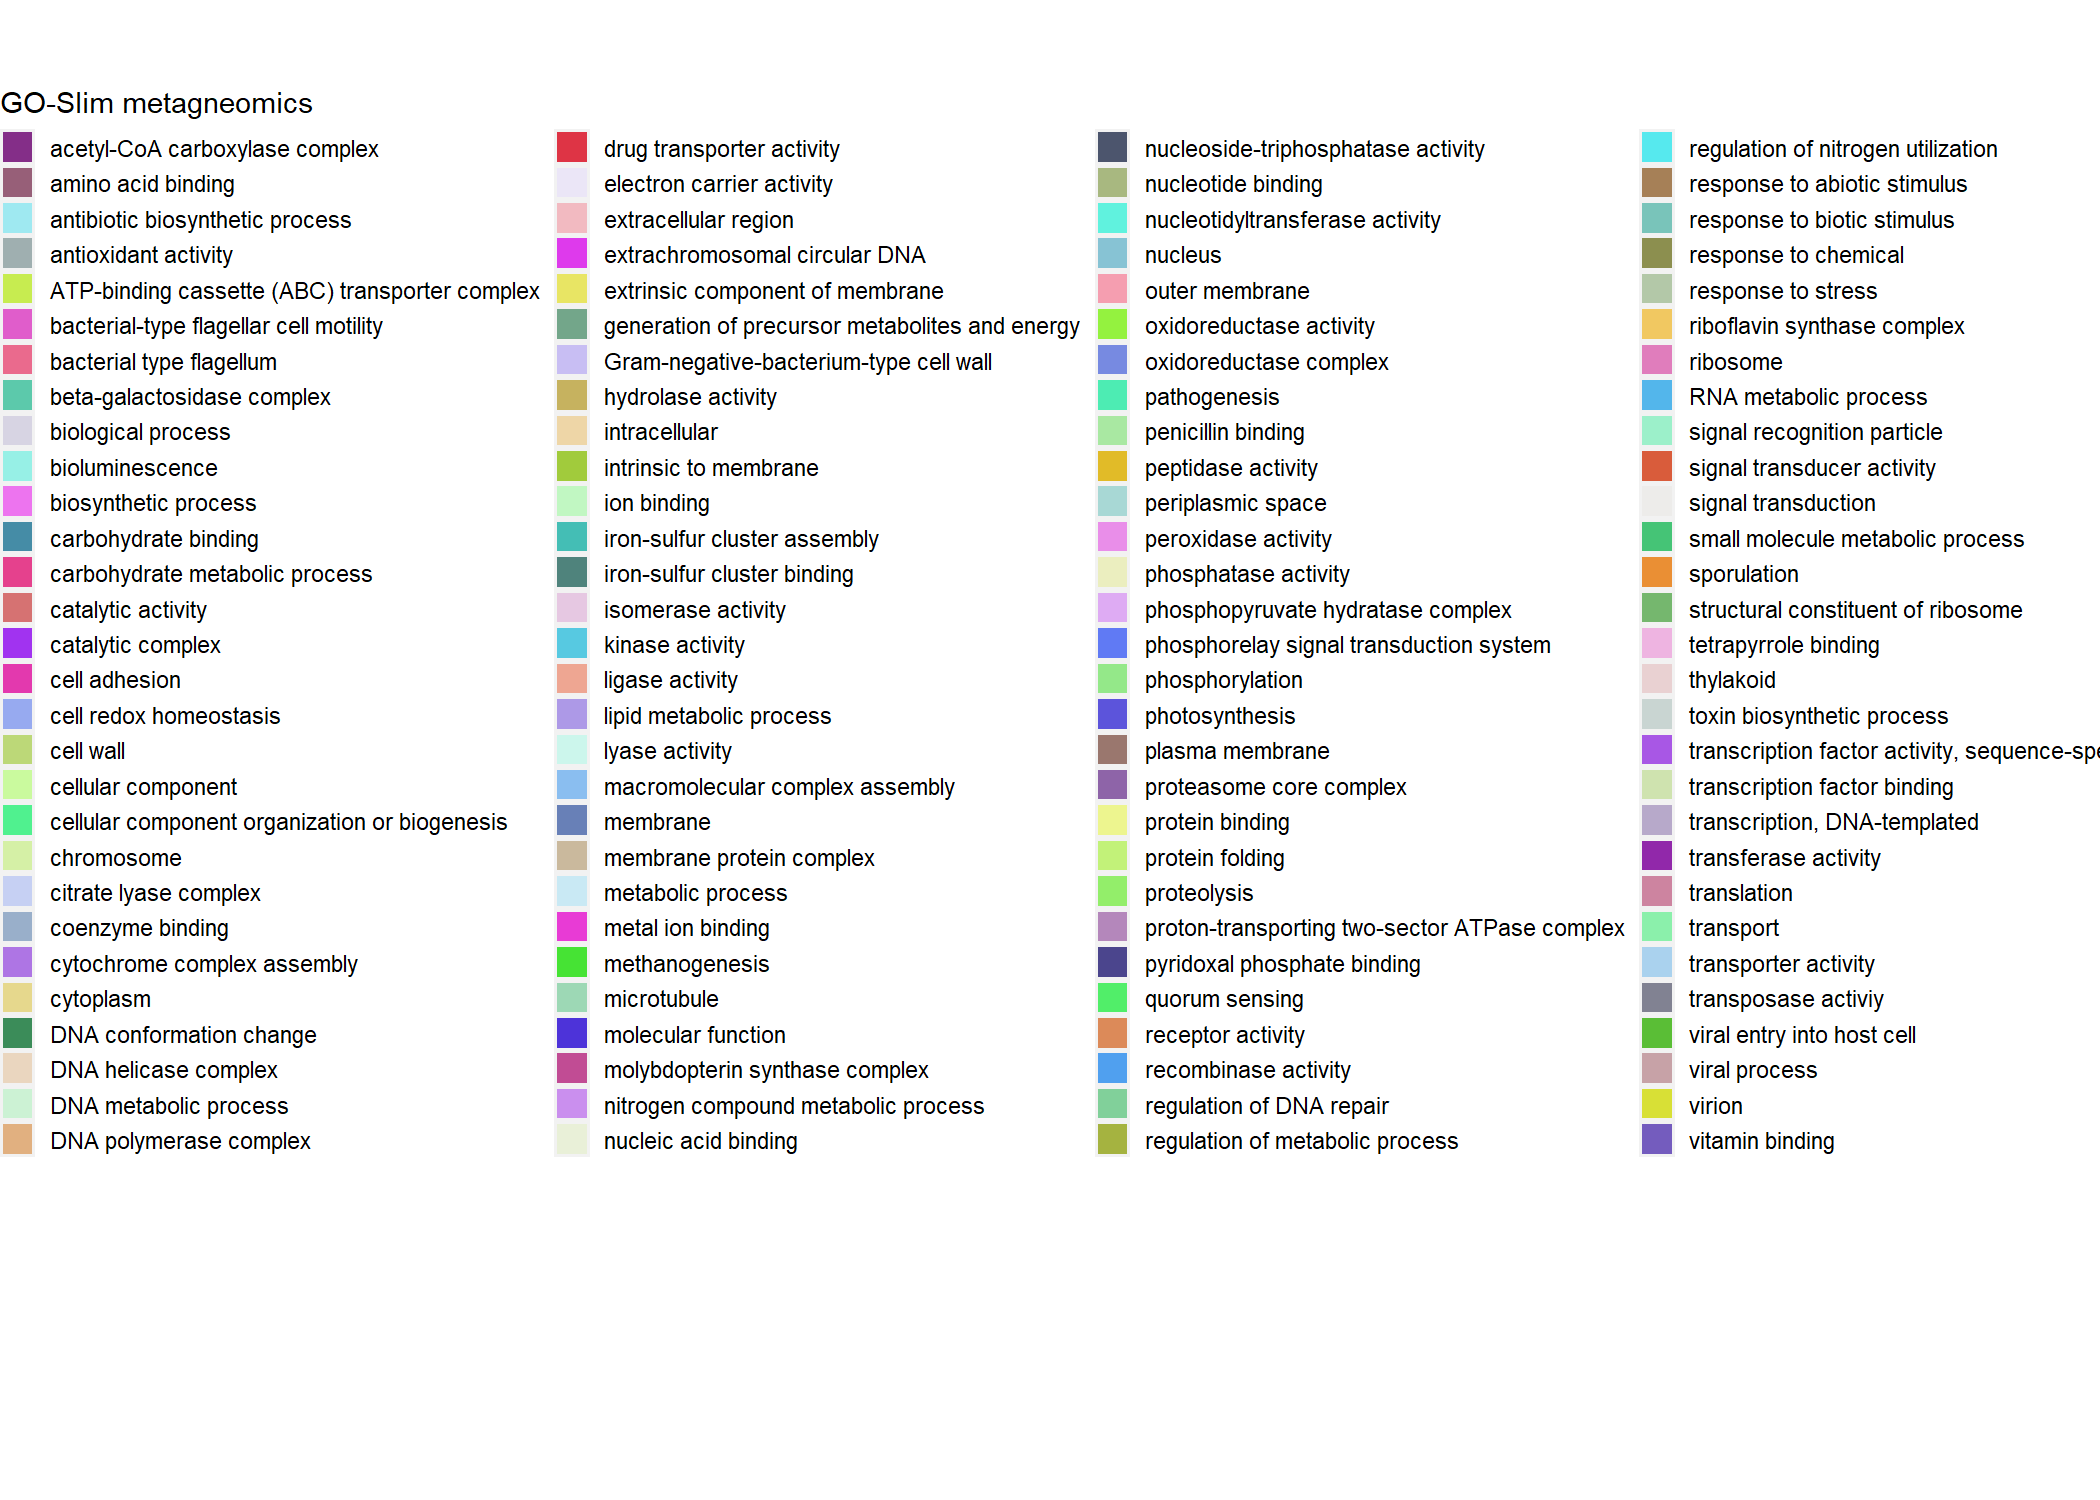
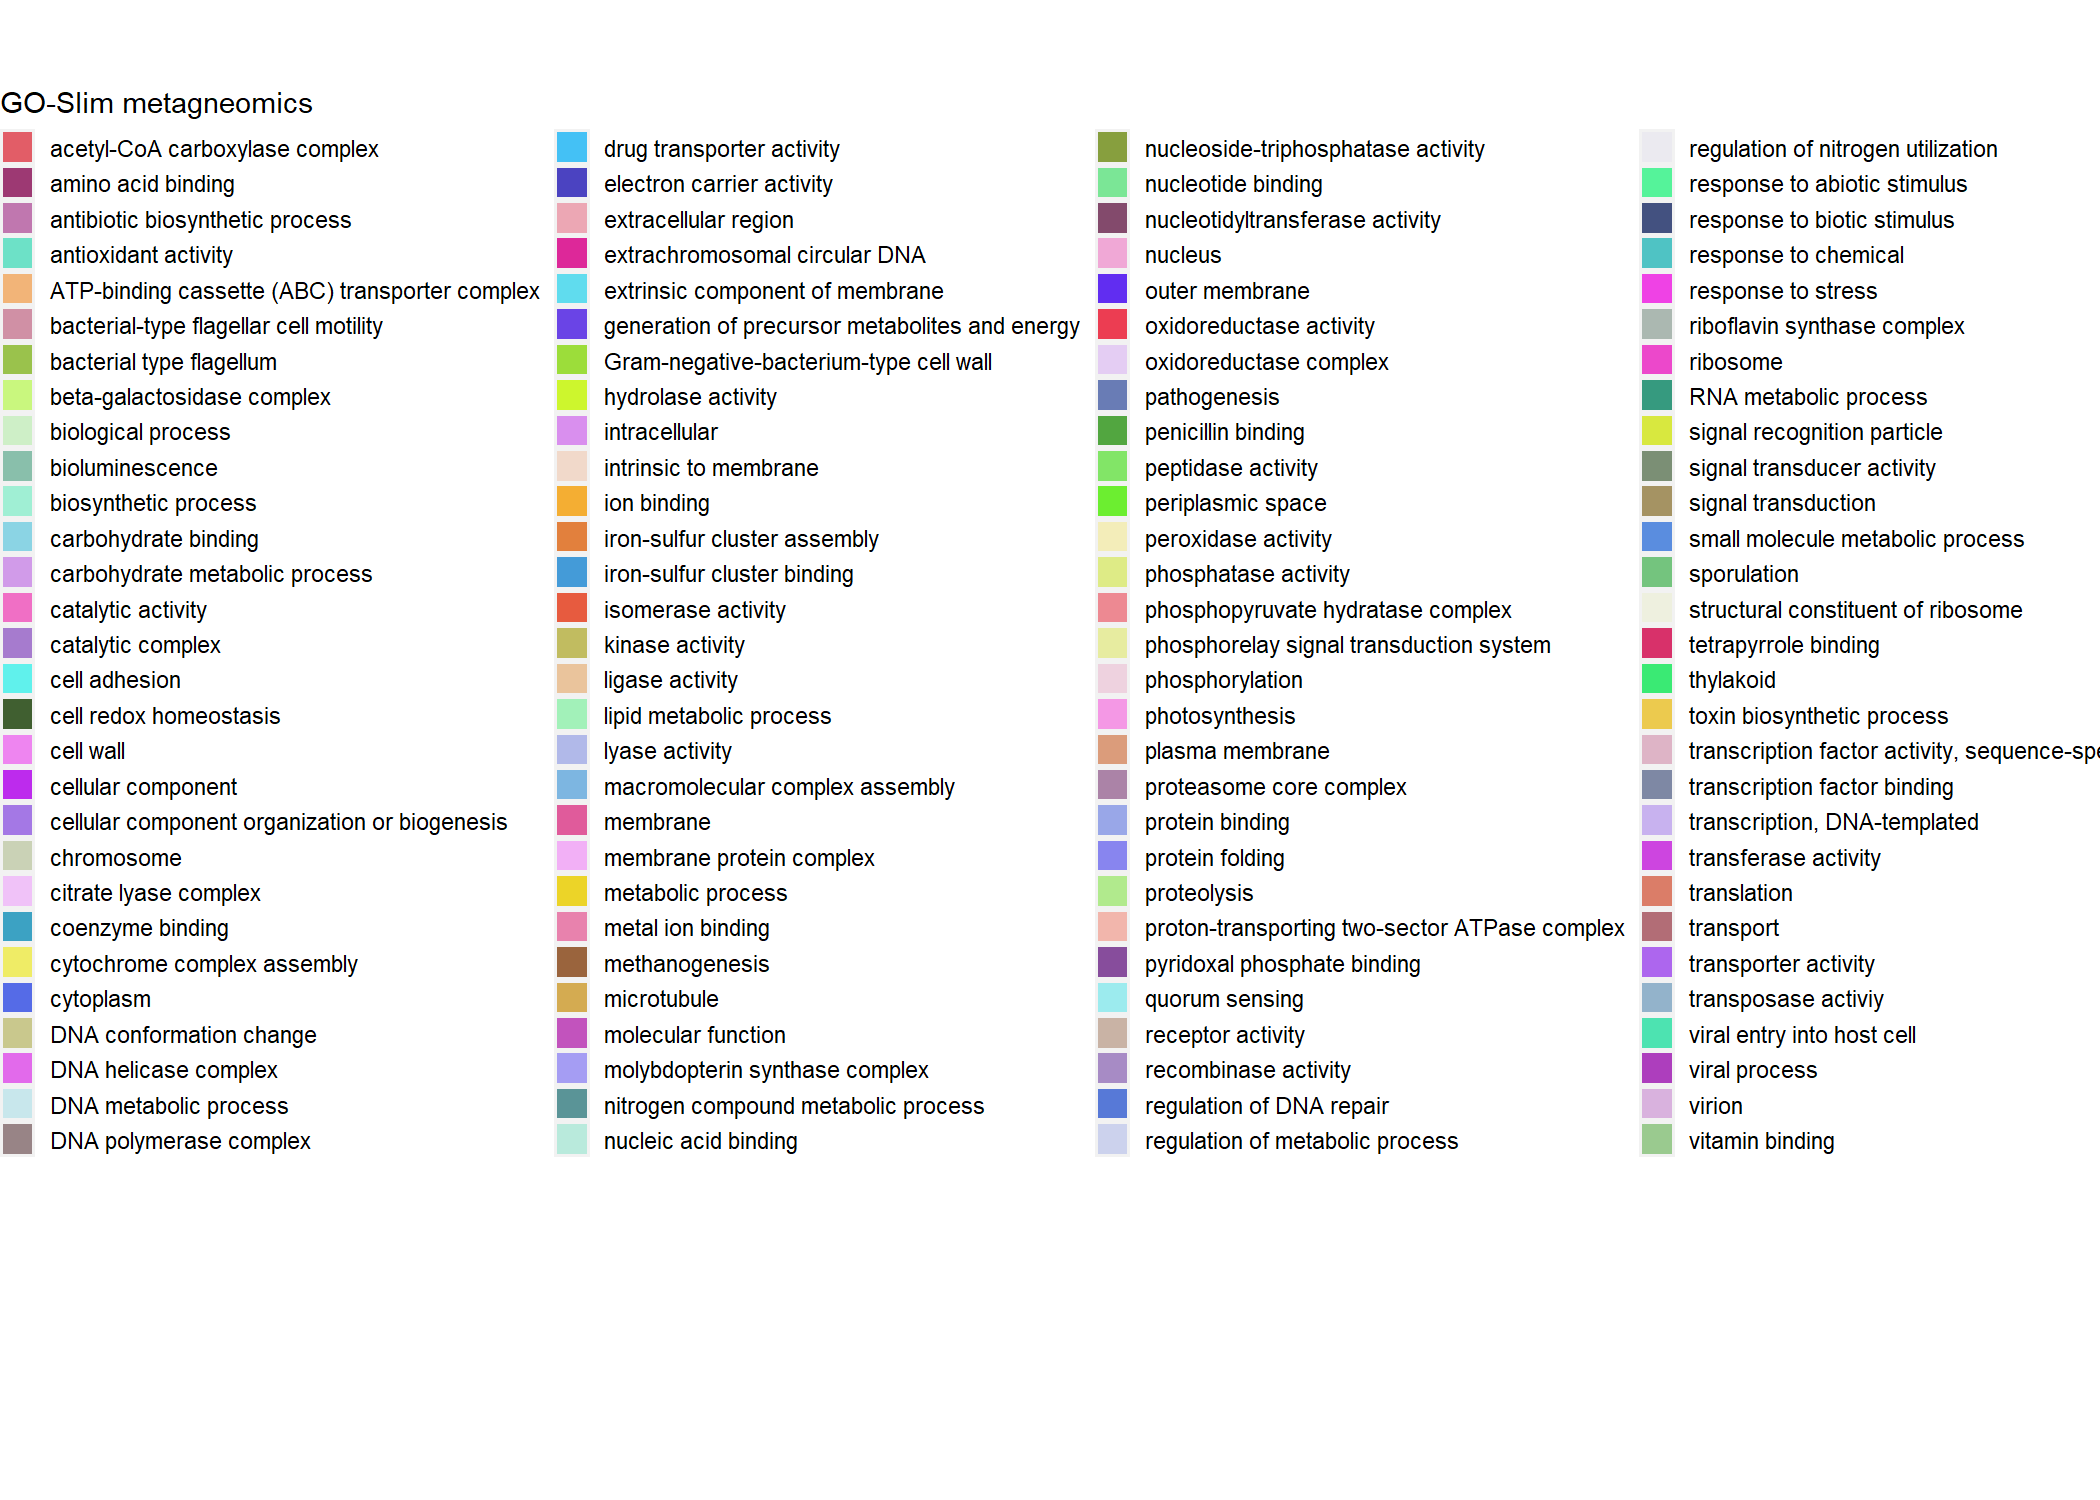
Work

diff --git a/Analysis/Function_representation.md b/Analysis/Function_representation.md
@@ -146,7 +146,7 @@ f_go.slim_abundances <- melt(f_go.slim_abundances, id.vars = "description")
 
 ``` r
 pale <- distinctColorPalette(116)
-GO_Slim_plot <- ggplot(f_go.slim_abundances, aes(x=variable, y = value, fill = description)) + geom_bar(position = "fill", stat = "identity") + theme(text = element_text(size = 7), axis.text.x = element_text(size = 5, angle = 90, vjust = 0.5, hjust=1), legend.position = "none")  + scale_fill_manual(values = pale)
+GO_Slim_plot <- ggplot(f_go.slim_abundances, aes(x=variable, y = value, fill = description)) + geom_bar(position = "fill", stat = "identity") + theme(text = element_text(size = 7), axis.text.x = element_text(size = 5, angle = 90, vjust = 0.5, hjust=1), legend.position = "none")  + scale_fill_manual(values = pale) + labs(x = NULL, y = NULL)
 
 GO_Slim_legend <- ggplot(f_go.slim_abundances, aes(x=variable, y = value, fill = description)) + geom_bar(position = "fill", stat = "identity") + theme(text = element_text(size = 7), axis.text.x = element_text(size = 5, angle = 90, vjust = 0.5, hjust=1), legend.key.size = unit(0.3, "cm"), plot.margin = unit(c(1,1,1,1.6), "cm")) + labs(x = NULL, y = NULL, fill = "GO-Slim metagneomics") + guides(fill=guide_legend(ncol=4)) + scale_fill_manual(values = pale)
 
